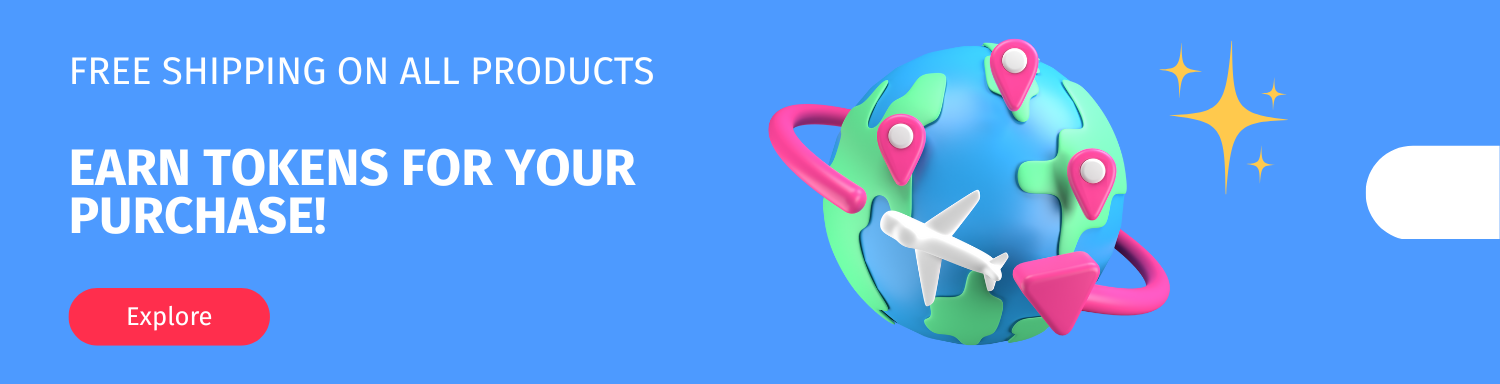
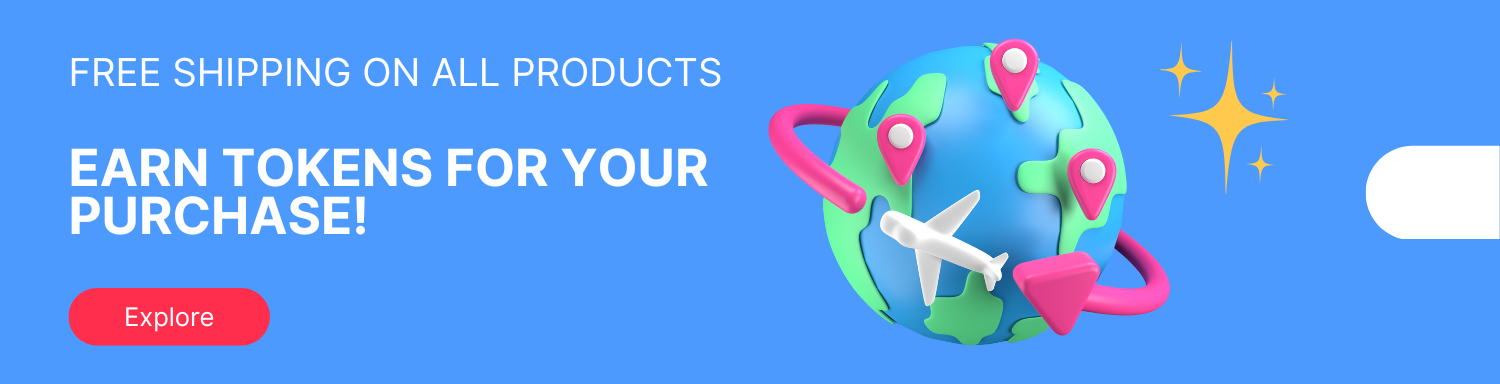
font family changed

Changed region(s): [[0.0307, 0.375, 0.4907, 0.625], [0.0307, 0.125, 0.4907, 0.25], [0.0613, 0.8125, 0.1533, 0.875]]

diff --git a/frontend-seller/pages/product.vue b/frontend-seller/pages/product.vue
@@ -1,0 +1,149 @@
+<template>
+    <main class="page">
+      <section class="hero">
+        <h1 class="title">Descubre [Nombre del Producto]</h1>
+        <p class="subtitle">Tecnología avanzada para mejorar tu productividad.</p>
+        <button class="cta">Buy Now</button>
+      </section>
+  
+      <section class="features">
+        <h2 class="section-title">¿Por qué elegirnos?</h2>
+        <div class="feature-list">
+          <div class="feature">
+            <h3>🚀 Alto Rendimiento</h3>
+            <p>Diseñado para velocidad y eficiencia.</p>
+          </div>
+          <div class="feature">
+            <h3>🔐 Seguridad</h3>
+            <p>Protección total de tus datos.</p>
+          </div>
+          <div class="feature">
+            <h3>💬 Soporte 24/7</h3>
+            <p>Te acompañamos en todo momento.</p>
+          </div>
+        </div>
+      </section>
+  
+      <section class="testimonials">
+        <h2 class="section-title">Opiniones de Clientes</h2>
+        <p class="testimonial">"Una herramienta indispensable en nuestro día a día." — Carla R.</p>
+        <p class="testimonial">"Impresionante cómo nos ayudó a crecer tan rápido." — Juan V.</p>
+      </section>
+  
+      <section class="cta-section">
+        <h2>¿Listo para avanzar?</h2>
+        <button class="cta">Crear Cuenta</button>
+      </section>
+  
+      <footer class="footer">
+        © 2025 TuEmpresa. Todos los derechos reservados.
+      </footer>
+    </main>
+  </template>
+  
+  <script setup>
+  // No requiere lógica por ahora
+  </script>
+  
+  <style scoped>
+  .page {
+
+    color: #1f1f1f;
+    line-height: 1.6;
+  }
+  
+  /* Hero */
+  .hero {
+    background: linear-gradient(135deg, #4f46e5, #7c3aed);
+    color: white;
+    text-align: center;
+    padding: 80px 20px;
+  }
+  
+  .title {
+    font-size: 2.5rem;
+    margin-bottom: 20px;
+  }
+  
+  .subtitle {
+    font-size: 1.25rem;
+    margin-bottom: 30px;
+  }
+  
+  .cta {
+    background: white;
+    color: #4f46e5;
+    border: none;
+    padding: 14px 28px;
+    font-weight: bold;
+    font-size: 1rem;
+    border-radius: 8px;
+    cursor: pointer;
+    transition: background 0.3s;
+  }
+  
+  .cta:hover {
+    background: #e0e7ff;
+  }
+  
+  /* Features */
+  .features {
+    padding: 60px 20px;
+    text-align: center;
+  }
+  
+  .section-title {
+    font-size: 2rem;
+    margin-bottom: 40px;
+  }
+  
+  .feature-list {
+    display: flex;
+    flex-wrap: wrap;
+    justify-content: center;
+    gap: 40px;
+  }
+  
+  .feature {
+    max-width: 280px;
+  }
+  
+  /* Testimonials */
+  .testimonials {
+    background: #f9fafb;
+    padding: 60px 20px;
+    text-align: center;
+  }
+  
+  .testimonial {
+    font-style: italic;
+    margin: 12px 0;
+  }
+  
+  /* CTA Final */
+  .cta-section {
+    text-align: center;
+    padding: 60px 20px;
+  }
+  
+  /* Footer */
+  .footer {
+    text-align: center;
+    font-size: 0.875rem;
+    color: #888;
+    padding: 20px;
+    background: #f0f0f0;
+  }
+  
+  /* Responsive */
+  @media (max-width: 768px) {
+    .title {
+      font-size: 2rem;
+    }
+    .feature-list {
+      flex-direction: column;
+      align-items: center;
+    }
+  }
+  </style>
+  

diff --git a/frontend-main/index.html b/frontend-main/index.html
@@ -8,7 +8,7 @@
 
     <link rel="preconnect" href="https://fonts.googleapis.com">
     <link rel="preconnect" href="https://fonts.gstatic.com" crossorigin>
-    <link href="https://fonts.googleapis.com/css2?family=Inter:ital,opsz,wght@0,14..32,100..900;1,14..32,100..900&display=swap" rel="stylesheet">
+
     <link href="https://fonts.googleapis.com/css2?family=Fira+Sans:ital,wght@0,100;0,200;0,300;0,400;0,500;0,600;0,700;0,800;0,900;1,100;1,200;1,300;1,400;1,500;1,600;1,700;1,800;1,900&display=swap" rel="stylesheet">
 
   </head>

diff --git a/frontend-main/src/assets/base.css b/frontend-main/src/assets/base.css
@@ -173,7 +173,6 @@ body {
     background-color 0.5s;
   line-height: 1.6;
   font-family: 'Inter', sans-serif;
-  font-family: "Fira Sans", sans-serif;
   font-optical-sizing: auto;
 
   font-style: normal;

diff --git a/frontend-main/src/views/home/BandComp.vue b/frontend-main/src/views/home/BandComp.vue
@@ -91,7 +91,7 @@ onBeforeUnmount(() => {
     display: flex;
     overflow: hidden;
     position: relative;
-    border-radius: var(--radius-a);
+    border-radius: 12px;
 }
 
 .band-track {
